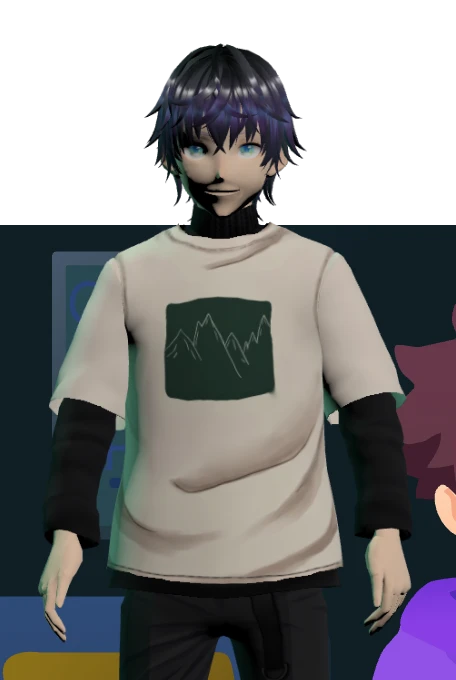
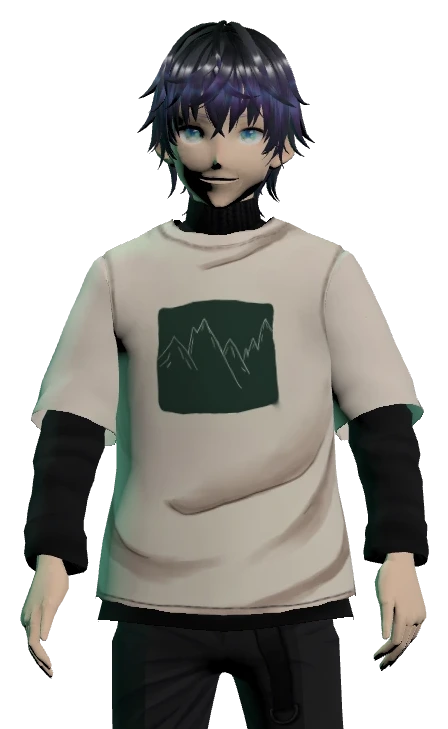
feat(mentors): update anime and girl images for enhanced visual quality

diff --git a/src/components/character3d/CONTEXT.md b/src/components/character3d/CONTEXT.md
@@ -166,7 +166,13 @@ Why does order matter?, Let's guess first. The Figma flow has no Hex-board frame
   guessed from the image, with dark variants). The pictures are **renders of our three models** (`public/images/mentors/{boy,girl,anime}.webp`,
   transparent, head to thigh, taken in headless Chrome from the avatar canvas of `?step=2`), so the arrows answer at once; "Choose"
   calls `setCharacter`, the button says "Loading…" while the character loads and the card closes when it is on show. A tap outside or
-  Escape closes it with the character unchanged. If the character is re-modelled the renders are stale: redo them.
+  Escape closes it with the character unchanged. If the character is re-modelled the renders are stale: redo them (how they were made: headless
+  Chrome over CDP, `?step=2` with `lingo.character-look` set, the canvas host pinned to the page corner at 380 × 680 with CSS, everything else
+  `visibility:hidden`, a transparent background override, a WebP screenshot of its top 63 %, then cut to the alpha bounding box in a page canvas).
+  Checked in headless Chrome 390×844, dark and light: tap on the battery opens it on Veena (the current one), the arrows go Veena → Zane → Rio
+  with the colours, names and pictures changing, "Choose Rio" stored `{"character":"boy"}`, closed the card and the screen's face became the boy.
+  Not checked: a real phone or touch, the card on a short screen, the "Loading…" state with a slow connection (Rio loaded in about a second here),
+  Escape and the outside tap. The "Choose" button is the app's Rive `Button3D`, not the design's striped one.
 - **Audio on the 3D route:** place 9 (shoes first) plays Hex's clips of the original screen (`SEQUENCE_AUDIO.socksFirst`: the title, then the
   line the bubble used to show). Hex has no clip for the other screens without one (1, 2, 4-7, 14-27 beyond 11-13): they need recording.
 - **Step 7 is the Figma `sequence_7` frame (a screenshot from the user), `look="tray"` with a list** (2026-11-21): the same screen as step 3,
